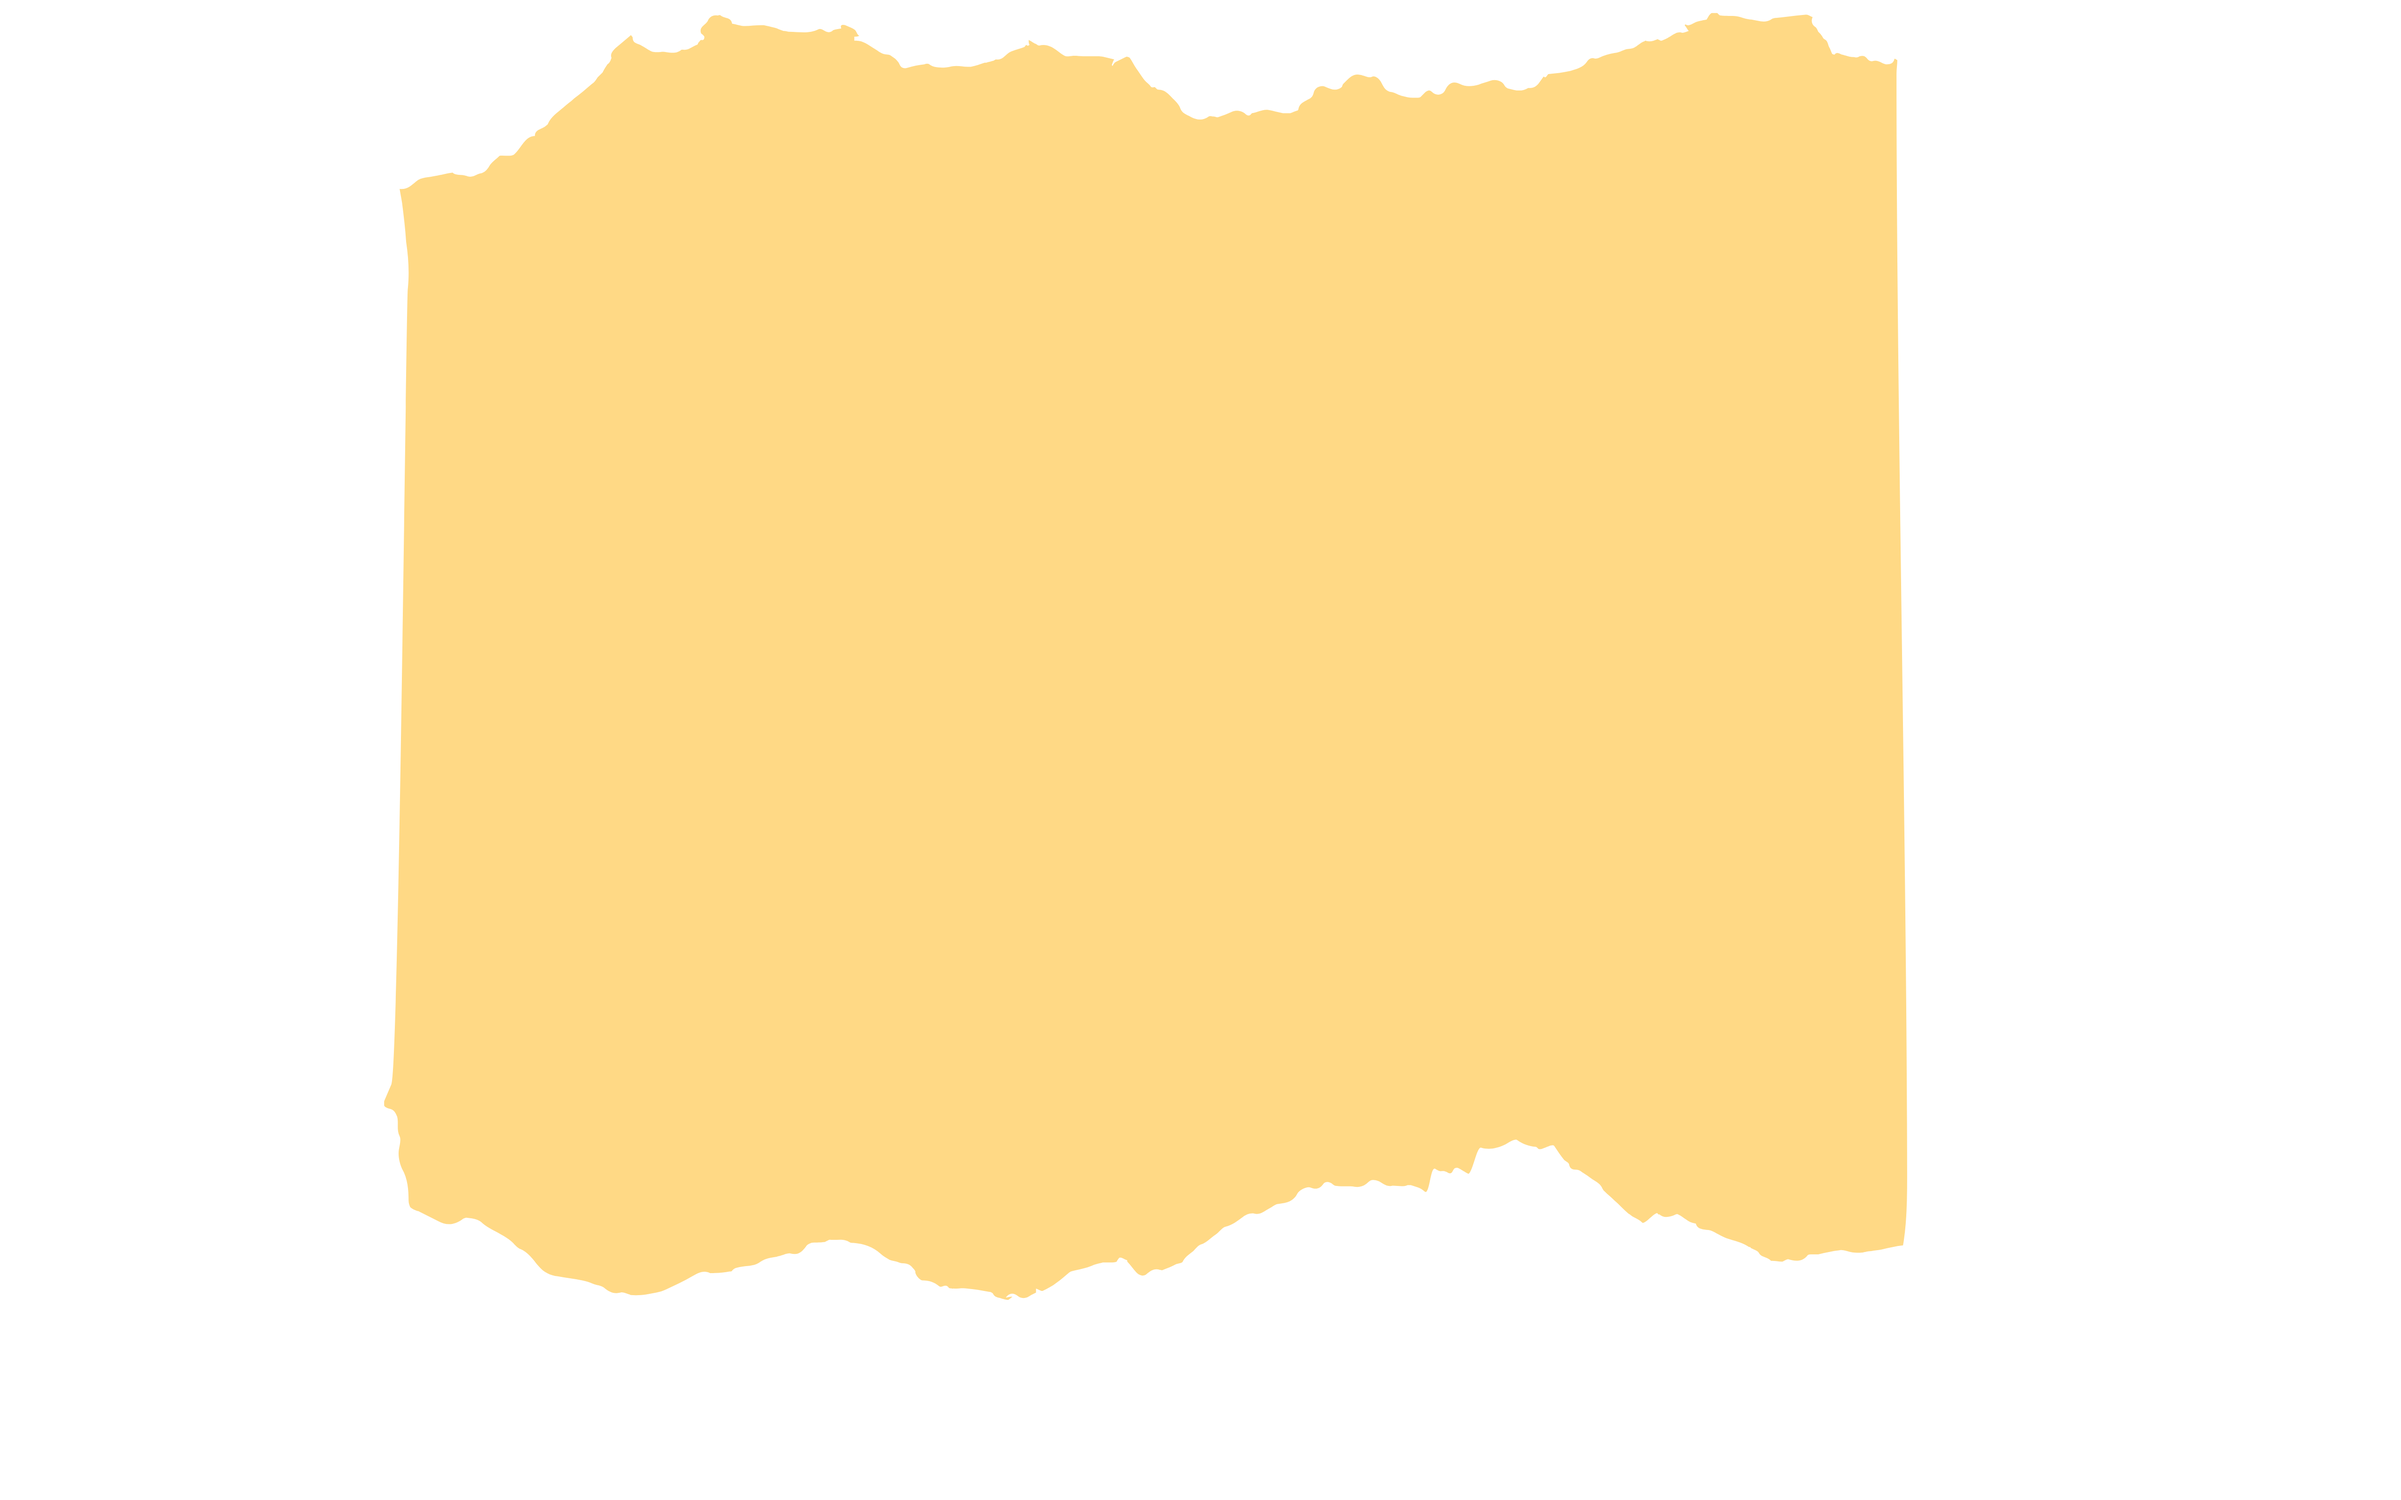
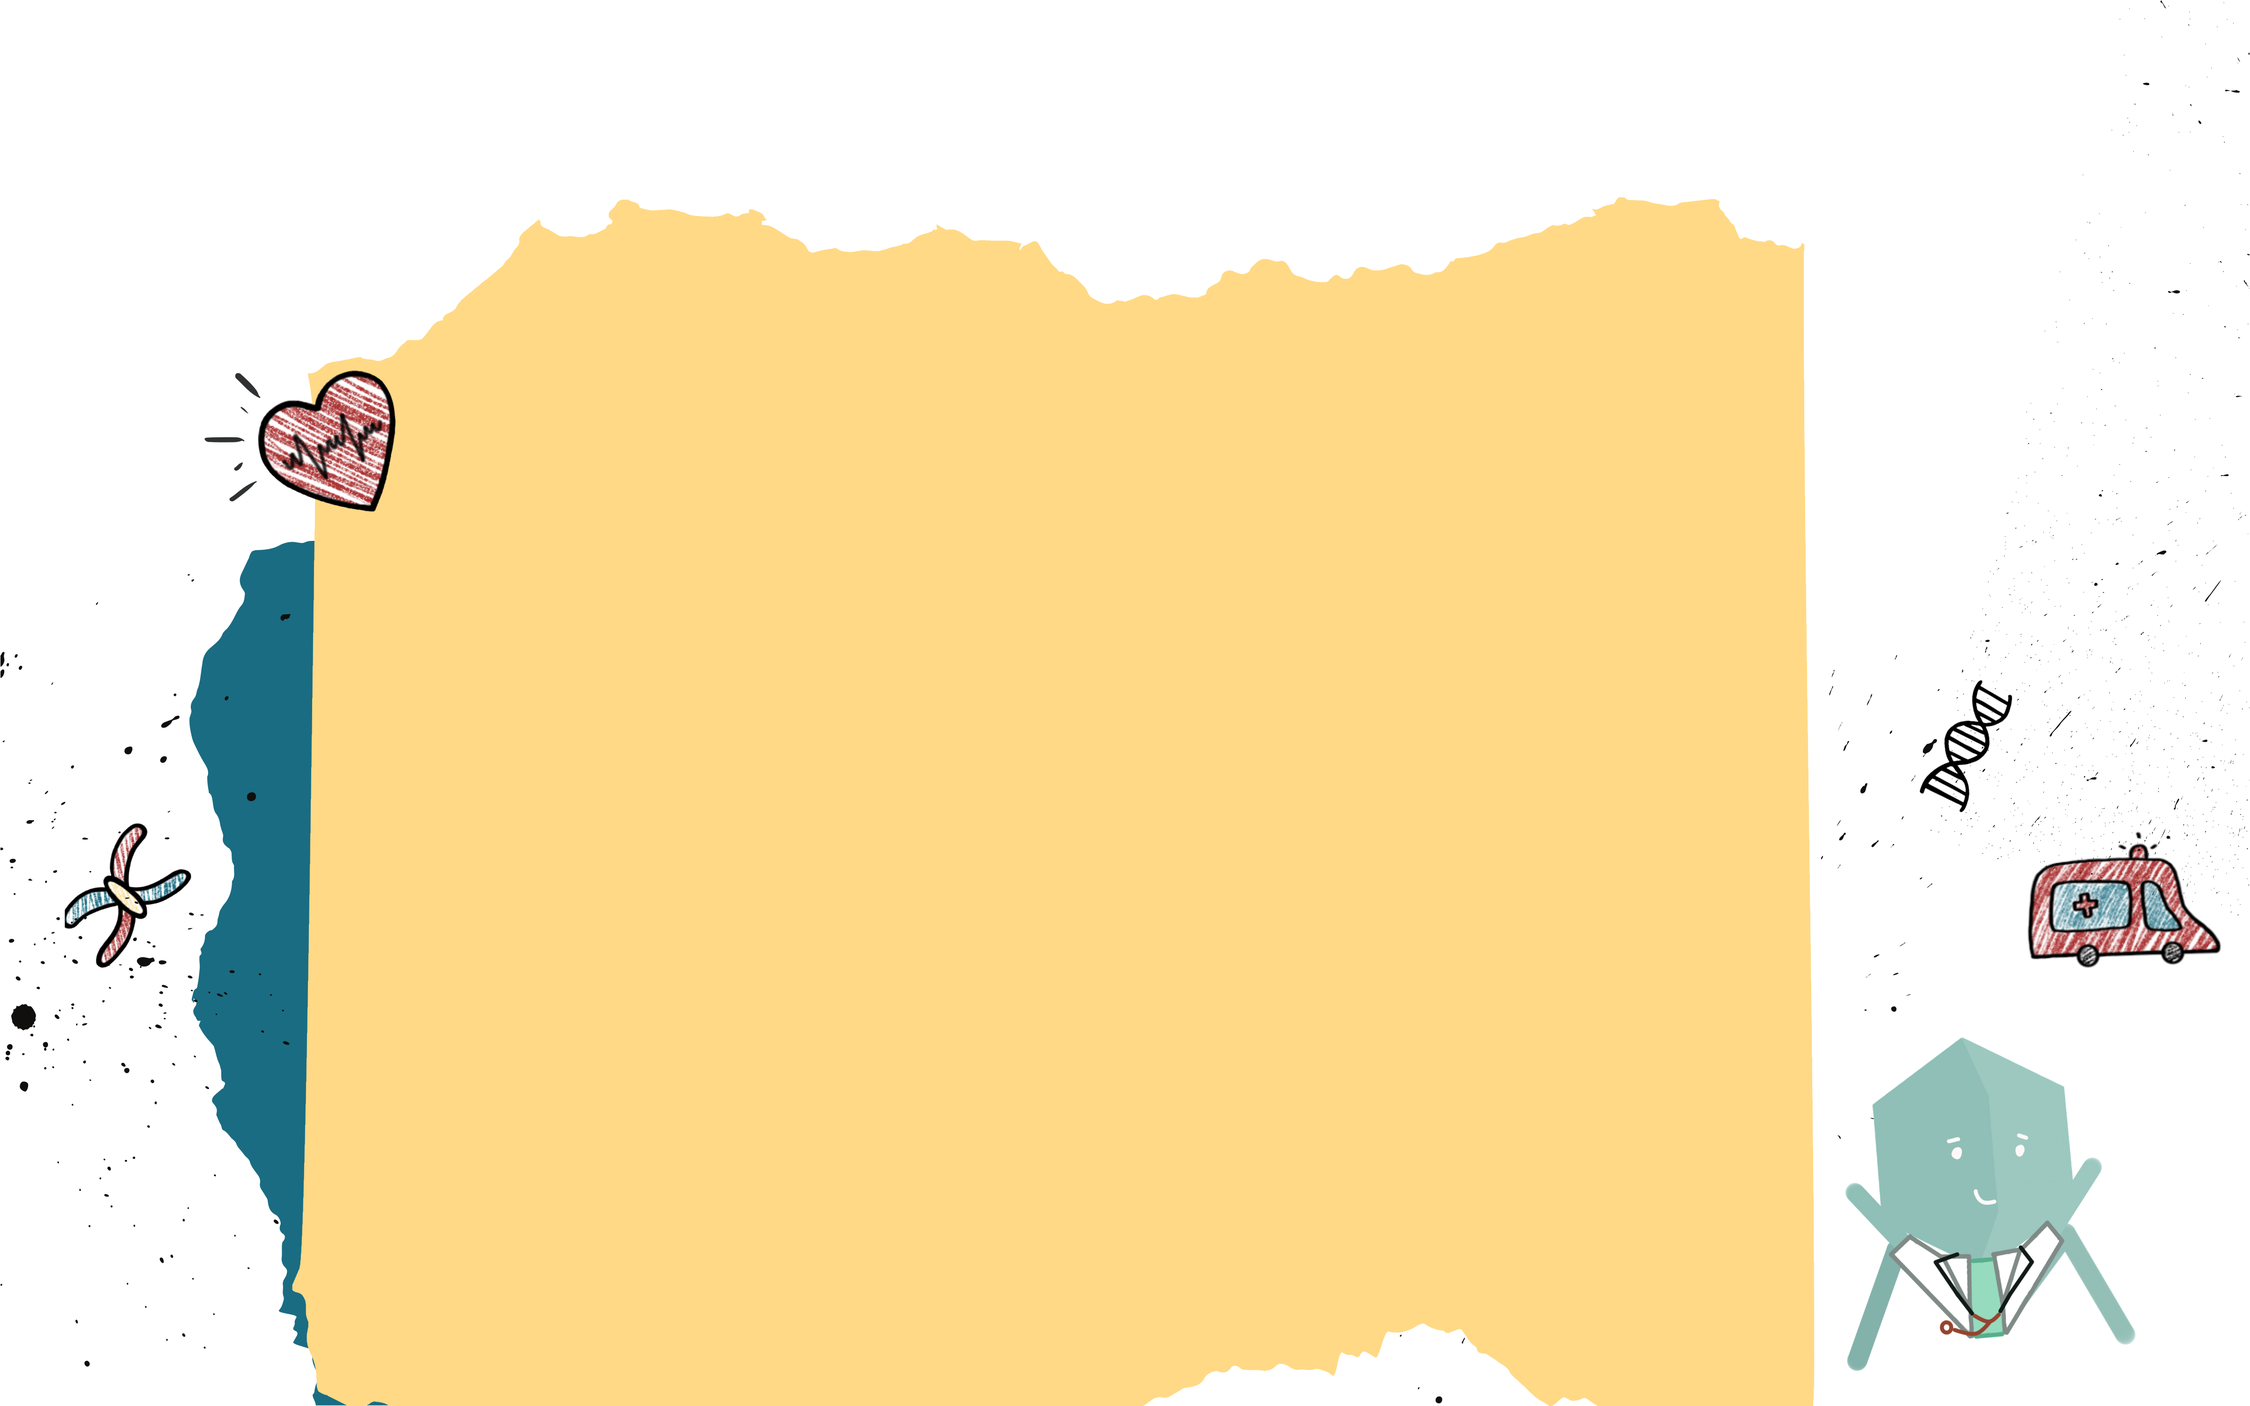
Update sponsors background

diff --git a/styles/themes.css b/styles/themes.css
@@ -21,6 +21,7 @@
     --container-bg: url("../public/assets/natural-paper.png");
     --footer-bg: url("../public/assets/natural-paper.png");
     --landing-bg: url("../public/assets/3.png");
+    --hero-bg: url("../public/assets/4.png");
     --winners-bg: url("../public/assets/4-noborder.png");
     --faq-bg: url("../public/assets/9.png");
     --volunteer-bg: url("../public/assets/12.png");

diff --git a/styles/Sponsors.module.css b/styles/Sponsors.module.css
@@ -1,6 +1,7 @@
 .main {
   z-index: 0;
   min-height: 100vh;
+  min-width: 100vw;
   margin-top: 5rem;
   display: flex;
   flex-direction: column;
@@ -8,7 +9,7 @@
   text-align: center;
   background-image: var(--sponsors-bg);
   background-size: cover;
-  background-position: center center;
+  background-position: center;
   background-repeat: no-repeat;
 }
 

diff --git a/styles/Hero.module.css b/styles/Hero.module.css
@@ -6,6 +6,10 @@
     flex-direction: column-reverse;
     align-items: center;
     justify-content: center;
+    background-image: var(--hero-bg);
+    background-size: cover;
+    background-position: center;
+    background-repeat: no-repeat;
 }
 
 .calendar {
